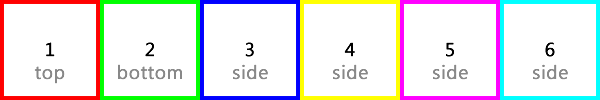
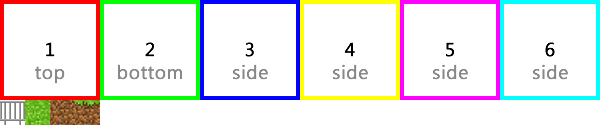
added new block textures, textures now editable

Changed region(s): [[0.0, 0.33, 1.0, 1.0], [0.0, 0.03, 1.0, 0.06], [0.72, 0.33, 0.78, 0.39]]

diff --git a/iso.js b/iso.js
@@ -12,14 +12,25 @@ function texturesLoaded(){
 
 	var texture = new BlockTexture(textures, 0,0,100,100);
 	var textureRepeated = new BlockTexture(textures, 0,0,100,100, [0,1,2,2,2,2]);
-	var texturePartial = new BlockTexture(textures, 0,0,100,100, [null,null,2,null,2,null]);
+
+	var fence = new BlockTexture(textures, 0,100,25,25, [null,null,0,null,0,null]);
+	var grass = new BlockTexture(textures, 25,100,25,25, [0,1,2,2,2,2]);
+
+	// DEBUG: dynamic texture editing
+	var c = texture.getDrawingContext(0);
+	c.fillStyle = "#000";
+	c.fillRect(0, 0, 25, 25);
 
 	env.setBlocks(
-		new Block(new Point3D( 0,0,0), texture),
-		new Block(new Point3D( 1,0,0), texture),
-		new Block(new Point3D(-1,0,0), texture),
-		new Block(new Point3D( 1,1,0), textureRepeated),
-		new Block(new Point3D( 0,-1,0), texturePartial, true)
+		new Block(new Point3D(-1, 0,0), texture),
+		new Block(new Point3D( 0, 0,0), texture),
+		new Block(new Point3D( 0,-1,0), fence, true),
+		new Block(new Point3D( 1, 0,0), texture),
+		new Block(new Point3D( 1,-1,0), fence, true),
+		new Block(new Point3D( 1, 1,0), textureRepeated),
+		new Block(new Point3D(-1, 0,1), grass),
+		new Block(new Point3D( 0, 0,1), grass),
+		new Block(new Point3D( 1, 0,1), grass)
 	);
 
 	document.addEventListener("keydown", handleKeyDown);
@@ -237,8 +248,8 @@ Environment.prototype.tilt = function(offset){
 };
 
 
-function BlockTexture(image, x, y, width, height, faceMapping){
-	this.image = image;
+function BlockTexture(src, x, y, width, height, faceMapping){
+	this.src = src;
 	this.x = x;
 	this.y = y;
 	this.width = width;
@@ -246,16 +257,48 @@ function BlockTexture(image, x, y, width, height, faceMapping){
 	this.faceMapping = faceMapping || [0,1,2,3,4,5];
 }
 
+BlockTexture.prototype.hasFace = function(faceIndex){
+	return this.faceMapping[faceIndex] != null;
+};
+
 BlockTexture.prototype.draw = function(env, faceIndex){
 	if (!this.hasFace(faceIndex)){
 		return;
 	}
 	var srcX = this.x + this.faceMapping[faceIndex] * this.width; 
-	env.context.drawImage(this.image, srcX,this.y, this.width,this.height, 0,0, env.scale,env.scale);
+	env.context.drawImage(this.src, srcX,this.y, this.width,this.height, 0,0, env.scale,env.scale);
 };
 
-BlockTexture.prototype.hasFace = function(faceIndex){
-	return this.faceMapping[faceIndex] != null;
+BlockTexture.prototype.enableEditable = function(){
+	if (this.src instanceof HTMLCanvasElement){
+		// already edit-capable
+		return;
+	}
+
+	// copy src into editable canvas
+	var canvas = document.createElement("canvas");
+	canvas.width = this.width * (1 + Math.max.apply(Math, this.faceMapping));
+	canvas.height = this.height;
+
+	var context = canvas.getContext("2d");
+	context.drawImage(this.src, 
+		this.x, this.y, canvas.width, canvas.height,
+		0, 0, canvas.width, canvas.height);
+
+	this.src = canvas;
+};
+
+BlockTexture.prototype.getDrawingContext = function(faceIndex){
+	faceIndex = faceIndex || 0;
+
+	this.enableEditable();
+	var context = this.src.getContext("2d");
+
+	if (this.hasFace(faceIndex)){
+		var srcX = this.x + this.faceMapping[faceIndex] * this.width; 
+		context.setTransform(1,0,0,1, srcX, this.y);
+	}
+	return context;
 };
 
 
